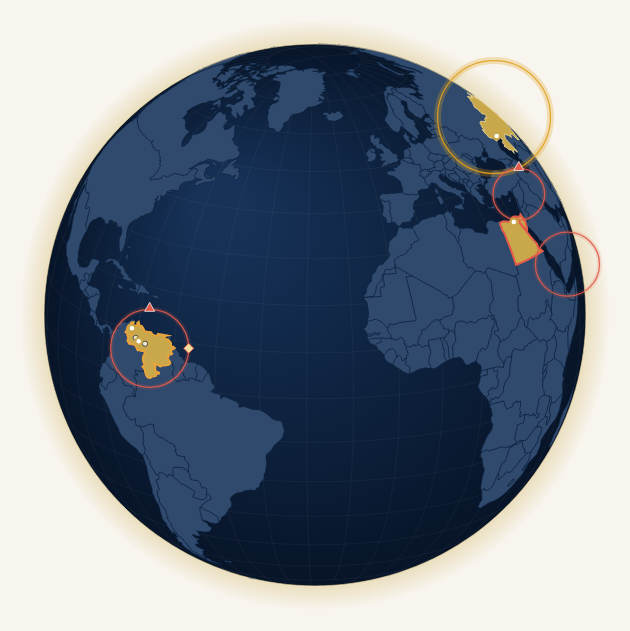
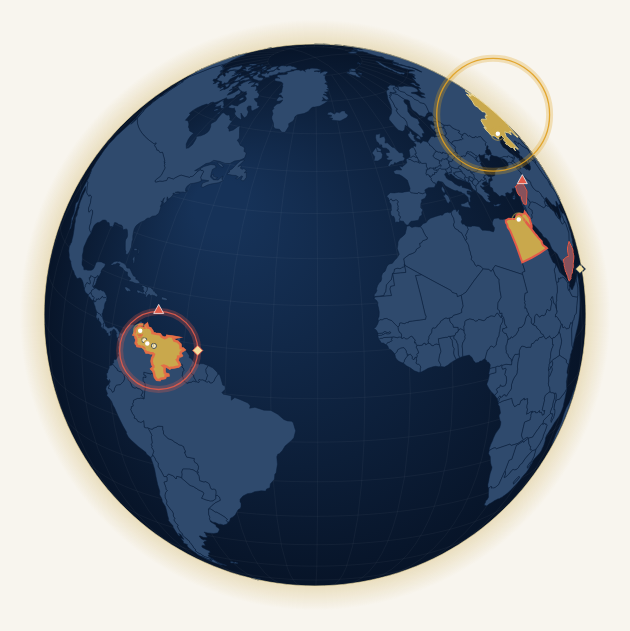
Hub globe: High-risk countries with no project are shaded in pulsing red, with their marks (#99)
* Hub globe: High-risk countries with no project are shaded in pulsing red, with their marks

The pulsing rings read as clutter. A country World Monitor scores High with no
project of ours is now shaded red and pulses (still under reduced motion), with
no ring: its rising tick sits above it and its sanctions diamond on it, as
Libya's does. The summary's high_risk entries carry sanctions_on, from the same
OFAC country list, so Yemen wears its diamond without a project there. Held
countries keep their gold and their ring, which no longer pulses.

Claude-Session: https://claude.ai/code/session_01MD1Qjrts27wozfWVNjXTX2

* Hub globe: a High-risk country where we work gains a pulsing red outline around its gold

So every High country pulses red: shaded where we have no project, and where we
do the gold stays (it says we work there) with a red outline beating in time
around it. The section lists these in data-halo-outline; the legend reads
"High risk pulses red: shaded where we have no project, outlined where we do".

Claude-Session: https://claude.ai/code/session_01MD1Qjrts27wozfWVNjXTX2

---------

diff --git a/hub/globe.js b/hub/globe.js
@@ -16,7 +16,7 @@
      .setRings(['BR', 'PE'])           // wave 7 PR6: a thin gold ring around each country with an open licence
                                        // round, sized to the country's area; onHover carries open: true for it
      .setRisk(new Map([['VE', { tone: 'red', rising: true, sanctions: true }]]))   // wave 8: the risk halo, tick and mark;
-                                       // a red halo pulses (11 Oct 2026), including on a country with no project
+                                       // unheld: true (11 Oct 2026) shades a High country with no project in pulsing red, no ring
      .setEvents([{ lat, lon }])        // wave 8: the chosen country's conflict events as clustered dots
      .setLang('en' | 'es')
      .destroy()
@@ -126,6 +126,7 @@ export function createGlobe(canvas, opts) {
     ctx.setTransform(dpr, 0, 0, dpr, 0, 0);
     ctx.clearRect(0, 0, w, h);
     const cx = w / 2, cy = h / 2, R = r0 * zoom;
+    const pulse = reduced ? 0.5 : (Math.sin(now / 600) + 1) / 2;
 
     // Atmosphere glow.
     const glow = ctx.createRadialGradient(cx, cy, R * 0.98, cx, cy, R * 1.09);
@@ -147,6 +148,25 @@ export function createGlobe(canvas, opts) {
       ctx.beginPath(); path(f);
       ctx.fillStyle = fill; ctx.fill();
       ctx.strokeStyle = line; ctx.lineWidth = lw; ctx.stroke();
+    }
+    // 11 Oct 2026: a country World Monitor scores High with no project of ours is shaded red and pulses (still under
+    // reduced motion); its marks are drawn on it with the halos below. Held countries keep their gold and their ring.
+    for (const [code, hv] of halos) {
+      if (!hv.unheld) continue;
+      const f = byCode.get(code);
+      if (!f) continue;
+      ctx.beginPath(); path(f);
+      ctx.fillStyle = COLOURS.haloRed; ctx.globalAlpha = selected === code ? 0.35 : 0.3 + 0.45 * pulse; ctx.fill();
+      ctx.globalAlpha = 1; ctx.strokeStyle = COLOURS.haloRed; ctx.lineWidth = 1; ctx.stroke();
+    }
+    // A held country World Monitor scores High keeps its gold and gains a pulsing red outline around it.
+    for (const [code, hv] of halos) {
+      if (hv.unheld || hv.tone !== 'red' || !held.get(code)) continue;
+      const f = byCode.get(code);
+      if (!f) continue;
+      ctx.beginPath(); path(f);
+      ctx.strokeStyle = COLOURS.haloRed; ctx.lineWidth = 1.5 + 2.5 * pulse; ctx.globalAlpha = 0.55 + 0.45 * pulse; ctx.stroke();
+      ctx.globalAlpha = 1;
     }
 
     // Points on the visible hemisphere: fields first (small, cream, still), then project
@@ -171,7 +191,6 @@ export function createGlobe(canvas, opts) {
       ctx.setLineDash([3, 4]); ctx.strokeStyle = COLOURS.ringOuter; ctx.lineWidth = 1; ctx.globalAlpha = 0.8; ctx.stroke();
       ctx.restore();
     }
-    const pulse = reduced ? 0.5 : (Math.sin(now / 600) + 1) / 2;
     // Wave 8 (W8-AC2): a halo per held country in the tone of its World Monitor score, outside the round ring: a soft
     // wide stroke under a thin one, a rising tick at the top when the trend is rising, a sanctions mark at the right.
     for (const [code, hv] of halos) {
@@ -186,23 +205,22 @@ export function createGlobe(canvas, opts) {
       // A halo without a tone (sanctioned, no World Monitor reading) draws only its sanctions mark.
       const tone = hv.tone === 'red' ? COLOURS.haloRed : hv.tone === 'amber' ? COLOURS.haloAmber : hv.tone === 'green' ? COLOURS.haloGreen : COLOURS.eventLine;
       ctx.save();
-      if (hv.tone) {
-        // 11 Oct 2026: a High (red) reading pulses, held or not, in time with the project points; still under reduced motion.
-        const beat = hv.tone === 'red' ? pulse : null;
+      const ringed = hv.tone && !hv.unheld;                    // a shaded country (no project) wears no ring: its marks sit on it
+      if (ringed) {
         ctx.beginPath(); ctx.arc(xy[0], xy[1], rr, 0, Math.PI * 2);
-        ctx.strokeStyle = tone; ctx.lineWidth = beat === null ? 7 : 5 + 8 * beat; ctx.globalAlpha = beat === null ? 0.28 : 0.15 + 0.4 * beat; ctx.stroke();
+        ctx.strokeStyle = tone; ctx.lineWidth = 7; ctx.globalAlpha = 0.28; ctx.stroke();
         ctx.beginPath(); ctx.arc(xy[0], xy[1], rr, 0, Math.PI * 2);
         ctx.lineWidth = 1.3; ctx.globalAlpha = 0.9; ctx.stroke();
       }
-      if (hv.tone && hv.rising) {                                   // the tick: a small triangle pointing up at twelve o'clock
-        const tx = xy[0], ty = xy[1] - rr;
+      if (hv.tone && hv.rising) {                                   // the tick: a small triangle pointing up at twelve o'clock (above the country without a ring)
+        const tx = xy[0], ty = ringed ? xy[1] - rr : xy[1] - 10;
         ctx.beginPath(); ctx.moveTo(tx, ty - 7); ctx.lineTo(tx - 5, ty + 2); ctx.lineTo(tx + 5, ty + 2); ctx.closePath();
         ctx.fillStyle = tone; ctx.globalAlpha = 1; ctx.fill(); ctx.strokeStyle = COLOURS.eventLine; ctx.lineWidth = 0.8; ctx.stroke();
       }
       if (hv.sanctions) {                                // the mark: a small diamond at three o'clock on the ring, or on the country itself without one
-        const mx = hv.tone ? xy[0] + rr : xy[0] + 10, my = hv.tone ? xy[1] : xy[1] + 8;
+        const mx = ringed ? xy[0] + rr : xy[0] + 10, my = ringed ? xy[1] : xy[1] + 8;
         ctx.beginPath(); ctx.moveTo(mx, my - 5); ctx.lineTo(mx + 5, my); ctx.lineTo(mx, my + 5); ctx.lineTo(mx - 5, my); ctx.closePath();
-        ctx.fillStyle = COLOURS.ring; ctx.globalAlpha = 1; ctx.fill(); ctx.strokeStyle = hv.tone ? tone : COLOURS.fieldLine; ctx.lineWidth = hv.tone ? 1 : 1.4; ctx.stroke();
+        ctx.fillStyle = COLOURS.ring; ctx.globalAlpha = 1; ctx.fill(); ctx.strokeStyle = ringed ? tone : COLOURS.fieldLine; ctx.lineWidth = ringed ? 1 : 1.4; ctx.stroke();
       }
       ctx.restore();
     }

diff --git a/hub/index.html b/hub/index.html
@@ -231,7 +231,7 @@
               <li data-legend="attention"><span class="hub-lg-swatch attention" aria-hidden="true"></span><span class="lg-name" data-en="Stale or NDA expiring" data-es="Obsoleto o NDA por vencer">Stale or NDA expiring</span><span class="lg-value" data-legend-value="attention"></span></li>
               <li data-legend="round"><span class="hub-lg-swatch round" aria-hidden="true"></span><span class="lg-name" data-en="Open licence round" data-es="Ronda de licencias abierta">Open licence round</span><span class="lg-value" data-legend-value="round"></span></li>
               <li data-legend="halo"><span class="hub-lg-swatch halo" aria-hidden="true"><i class="g"></i><i class="a"></i><i class="r"></i></span><span class="lg-name" data-en="World Monitor risk: managed, elevated, high" data-es="Riesgo World Monitor: gestionado, elevado, alto">World Monitor risk: managed, elevated, high</span><span class="lg-value" data-legend-value="halo"></span></li>
-              <li data-legend="watch"><span class="hub-lg-swatch watch" aria-hidden="true"></span><span class="lg-name" data-en="High risk pulses, where we work or not" data-es="El riesgo alto late, trabajemos allí o no">High risk pulses, where we work or not</span><span class="lg-value" data-legend-value="watch"></span></li>
+              <li data-legend="watch"><span class="hub-lg-swatch watch" aria-hidden="true"></span><span class="lg-name" data-en="High risk pulses red: shaded where we have no project, outlined where we do" data-es="El riesgo alto late en rojo: sombreado donde no tenemos proyecto, contorneado donde sí">High risk pulses red: shaded where we have no project, outlined where we do</span><span class="lg-value" data-legend-value="watch"></span></li>
               <li data-legend="rising"><span class="hub-lg-mark" aria-hidden="true">▲</span><span class="lg-name" data-en="Risk rising" data-es="Riesgo al alza">Risk rising</span><span class="lg-value" data-legend-value="rising"></span></li>
               <li data-legend="sanctions"><span class="hub-lg-mark" aria-hidden="true">◆</span><span class="lg-name" data-en="Under sanctions (US, Canada lists)" data-es="Bajo sanciones (listas de EE. UU. y Canadá)">Under sanctions (US, Canada lists)</span><span class="lg-value" data-legend-value="sanctions"></span></li>
               <li data-legend="events"><span class="hub-lg-swatch event" aria-hidden="true"></span><span class="lg-name" data-en="Conflict events, last 30 days (chosen country)" data-es="Eventos de conflicto, últimos 30 días (país elegido)">Conflict events, last 30 days (chosen country)</span><span class="lg-value" data-legend-value="events"></span></li>

diff --git a/hub/hub.js b/hub/hub.js
@@ -644,10 +644,10 @@ async function renderGlobe(person) {
       const scored = !!(c.risk && typeof c.risk.score === 'number');
       if (scored || underSanctions(c)) halos.set(c.code, { tone: scored ? toneOf(c.risk.score) : '', rising: scored && c.risk.trend === 'rising', sanctions: underSanctions(c) });
     }
-    // 11 Oct 2026: every country World Monitor scores High wears a pulsing red halo, with or without a project there.
+    // 11 Oct 2026: every country World Monitor scores High with no project of ours is shaded in pulsing red, with its rising and sanctions marks.
     for (const c of Array.isArray(data.high_risk) ? data.high_risk : []) {
       if (!c || typeof c.code !== 'string' || halos.has(c.code)) continue;
-      halos.set(c.code, { tone: 'red', rising: c.trend === 'rising', sanctions: false, unheld: true });
+      halos.set(c.code, { tone: 'red', rising: c.trend === 'rising', sanctions: Array.isArray(c.sanctions_on) && c.sanctions_on.length > 0, unheld: true });
       if (c.name && !names.has(c.code)) names.set(c.code, c.name);
     }
     // The section reports what the globe actually wears, so a mark the globe drops cannot pass unnoticed.
@@ -658,6 +658,7 @@ async function renderGlobe(person) {
     setOrDrop('data-halo-rising', codesOf((v) => v.rising).join(','));
     setOrDrop('data-halo-sanctions', codesOf((v) => v.sanctions).join(','));
     setOrDrop('data-halo-watch', codesOf((v) => v.unheld).join(','));
+    setOrDrop('data-halo-outline', codesOf((v) => !v.unheld && v.tone === 'red').join(','));   // held and High: gold with a pulsing red outline
     if (data.unplaced && data.unplaced.length) {
       unplaced.removeAttribute('hidden');
       const n = data.unplaced.length;
@@ -768,7 +769,7 @@ async function renderGlobe(person) {
       setLv('halo', Math.round(r.score) + ' · ' + lab[0] + (tr[0] ? ' · ' + tr[0] : ''), Math.round(r.score) + ' · ' + lab[1] + (tr[1] ? ' · ' + tr[1] : ''));
       setLv('rising', tr[0] || 'no trend', tr[1] || 'sin tendencia');
     } else { for (const k of ['halo', 'rising']) setLv(k, 'no reading', 'sin lectura'); }
-    const sn = sanctionsOf(c);
+    const sn = sanctionsOf(c) || (hr && Array.isArray(hr.sanctions_on) ? hr.sanctions_on : null);
     setLv('sanctions', sn ? (sn.length ? sn.join(', ') : 'none') : 'no reading', sn ? (sn.length ? sn.join(', ') : 'ninguna') : 'sin lectura');
     setLv('events', 'reading…', 'leyendo…');
   }

diff --git a/vault/src/api/countries.routes.ts b/vault/src/api/countries.routes.ts
@@ -34,8 +34,8 @@ export interface CountryProject {
 /** Wave 3: World Monitor's composite risk for the country; null without a key or when the feed refuses. */
 /** The score from which World Monitor's reading is High: the Hub's red tone (hub/hub.js toneOf). */
 export const HIGH_RISK = 70;
-/** 11 Oct 2026: a country World Monitor scores High, held or not; the globe pulses a red ring on each. */
-export interface HighRisk { code: string; name: { en: string; es: string }; score: number; trend: string | null }
+/** 11 Oct 2026: a country World Monitor scores High, held or not; the globe shades one with no project in pulsing red, with its marks. */
+export interface HighRisk { code: string; name: { en: string; es: string }; score: number; trend: string | null; /** the sanctions imposed on it, as the summary's sanctions_on */ sanctions_on: string[] }
 export interface CountryRiskLine { score: number | null; level: string | null; trend: string | null; computed_at: string | null; fetched_at: string; sanctions_active: boolean | null; sanctions_count: number | null; /** the same list as the summary's sanctions_on */ sanctions_targeted_by: string[]; /** wave 8 (W8-AC1): the score's move since the previous distinct reading in the log, null on the first */ change: number | null; previous_computed_at: string | null }
 export interface CountrySummary { code: string; name: { en: string; es: string }; projects: CountryProject[]; counts: { projects: number; stale: number; filing: number; expiring: number }; /** the sanctions imposed on the country (sanctionsOn), known with or without World Monitor */ sanctions_on: string[]; risk: CountryRiskLine | null }
 
@@ -115,7 +115,7 @@ export function register(app: Hono<Env>, _deps: RouteDeps): void {
     const high: HighRisk[] = [];
     if (connected) {
       const all = await riskScores();
-      if (all.ok) for (const c of all.data) { if (c.score >= HIGH_RISK) high.push({ code: c.code, name: countryName(c.code), score: c.score, trend: c.trend }); }
+      if (all.ok) for (const c of all.data) { if (c.score >= HIGH_RISK) high.push({ code: c.code, name: countryName(c.code), score: c.score, trend: c.trend, sanctions_on: sanctionsOn(c.code, programList) }); }
       else if (!riskNotes.includes(all.reason)) riskNotes.push(all.reason);
     }
     const countries: CountrySummary[] = [...byCode.entries()].map(([code, projects]) => ({

diff --git a/vault/test/countries.high-risk.test.ts b/vault/test/countries.high-risk.test.ts
@@ -6,7 +6,7 @@ import { openDb, type Db } from '../src/db/client.ts';
 import { migrate } from '../src/db/migrate.ts';
 import { seedMaster } from '../src/db/seed.ts';
 import { createApp } from '../src/app.ts';
-import { configureWorldMonitor, riskScores } from '../src/intel/worldmonitor.ts';
+import { configureWorldMonitor, riskScores, sanctionsOn } from '../src/intel/worldmonitor.ts';
 
 const DOMAIN = 'alpha-technical-centre.com';
 const KEY = 'wm-test-key';
@@ -48,15 +48,16 @@ test('the all-country table is read in one call; only ISO2 lines with a score ar
   assert.equal(r.data.find(c => c.code === 'MX')!.trend, null);
 });
 
-test('the summary lists every High country, held or not, at 70 and over, with its name and trend; one table call per hour', async () => {
+test('the summary lists every High country, held or not, at 70 and over, with its name, trend and sanctions; one table call per hour', async () => {
   configureWorldMonitor({ apiKey: KEY, fetch: fetchWith(null) });
   calls = [];
   const s = await summary();
   assert.deepEqual(s.high_risk, [
-    { code: 'MX', name: { en: 'Mexico', es: 'México' }, score: 70, trend: null },
-    { code: 'SY', name: s.high_risk[1].name, score: 91.4, trend: 'stable' },
-    { code: 'VE', name: { en: 'Venezuela', es: 'Venezuela' }, score: 82, trend: 'rising' },
+    { code: 'MX', name: { en: 'Mexico', es: 'México' }, score: 70, trend: null, sanctions_on: [] },
+    { code: 'SY', name: s.high_risk[1].name, score: 91.4, trend: 'stable', sanctions_on: sanctionsOn('SY') },
+    { code: 'VE', name: { en: 'Venezuela', es: 'Venezuela' }, score: 82, trend: 'rising', sanctions_on: sanctionsOn('VE') },
   ]);
+  assert.ok(s.high_risk[2].sanctions_on.length > 0, 'Venezuela carries its sanctions, project or not');
   assert.equal(s.high_risk[1].name.en, 'Syria');
   assert.ok(!s.high_risk.some((c: any) => c.code === 'KZ'), 'Elevated is not High');
   assert.equal(calls.filter(u => u.includes('get-risk-scores')).length, 1);

diff --git a/hub/hub.css b/hub/hub.css
@@ -650,8 +650,8 @@
 .hub-lg-swatch.halo { display: inline-flex; gap: 2px; width: auto; }
 .hub-lg-swatch.halo i { display: inline-block; width: 12px; height: 12px; border-radius: 50%; border: 3px solid; background: transparent; box-sizing: border-box; }
 .hub-lg-swatch.halo i.g { border-color: rgba(46,158,110,.9); } .hub-lg-swatch.halo i.a { border-color: rgba(224,160,32,.9); } .hub-lg-swatch.halo i.r { border-color: rgba(226,91,74,.9); }
-.hub-lg-swatch.watch { background: transparent; border: 3px solid rgba(226,91,74,.9); box-sizing: border-box; animation: hub-lg-pulse 1.9s ease-in-out infinite; }
-@keyframes hub-lg-pulse { 0%, 100% { box-shadow: 0 0 0 0 rgba(226,91,74,.55); } 50% { box-shadow: 0 0 0 4px rgba(226,91,74,0); } }
+.hub-lg-swatch.watch { border-radius: 3px; background: #E25B4A; border: 1px solid #E25B4A; box-sizing: border-box; animation: hub-lg-pulse 1.9s ease-in-out infinite; }
+@keyframes hub-lg-pulse { 0%, 100% { opacity: .45; } 50% { opacity: 1; } }
 @media (prefers-reduced-motion: reduce) { .hub-lg-swatch.watch { animation: none; } }
 .hub-lg-swatch.event { background: #FF5A4A; width: 9px; height: 9px; border: 1px solid #fff; }
 .hub-lg-mark { display: inline-block; width: 12px; text-align: center; color: #F2DFA0; font-size: 11px; flex: none; }
